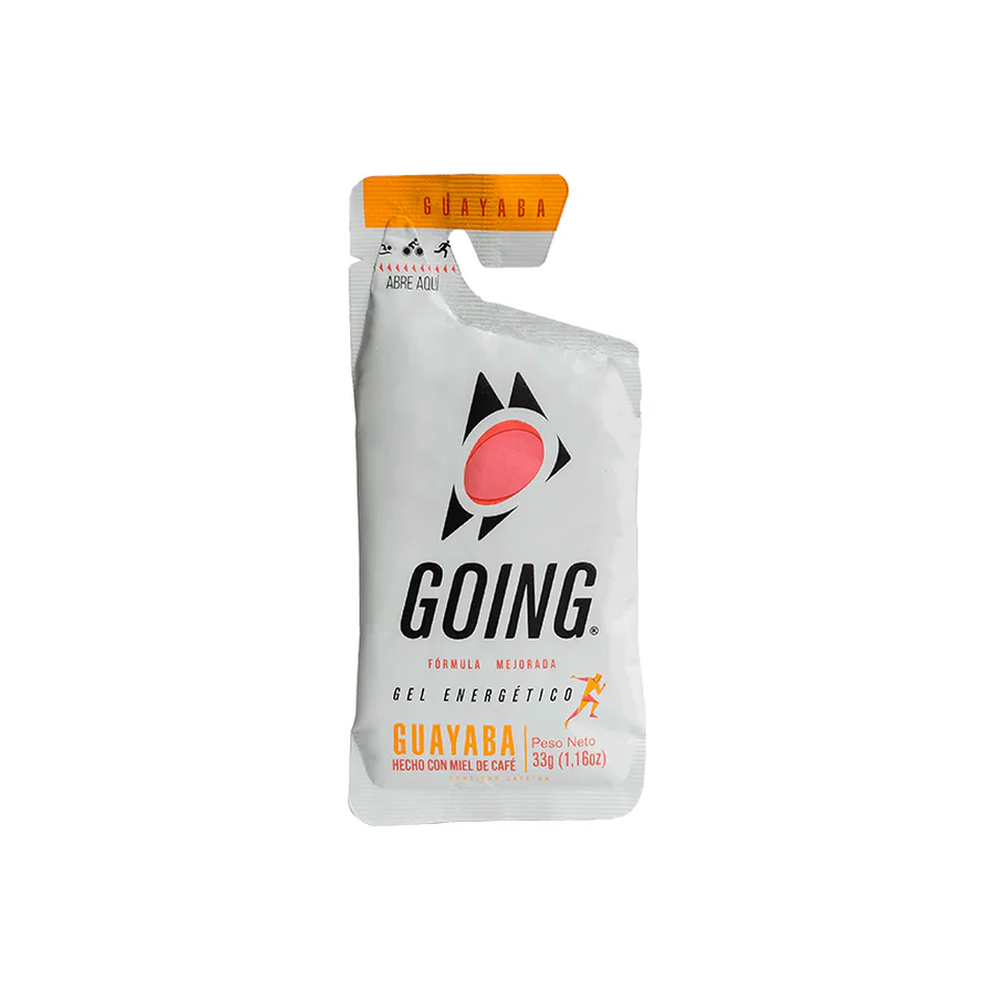
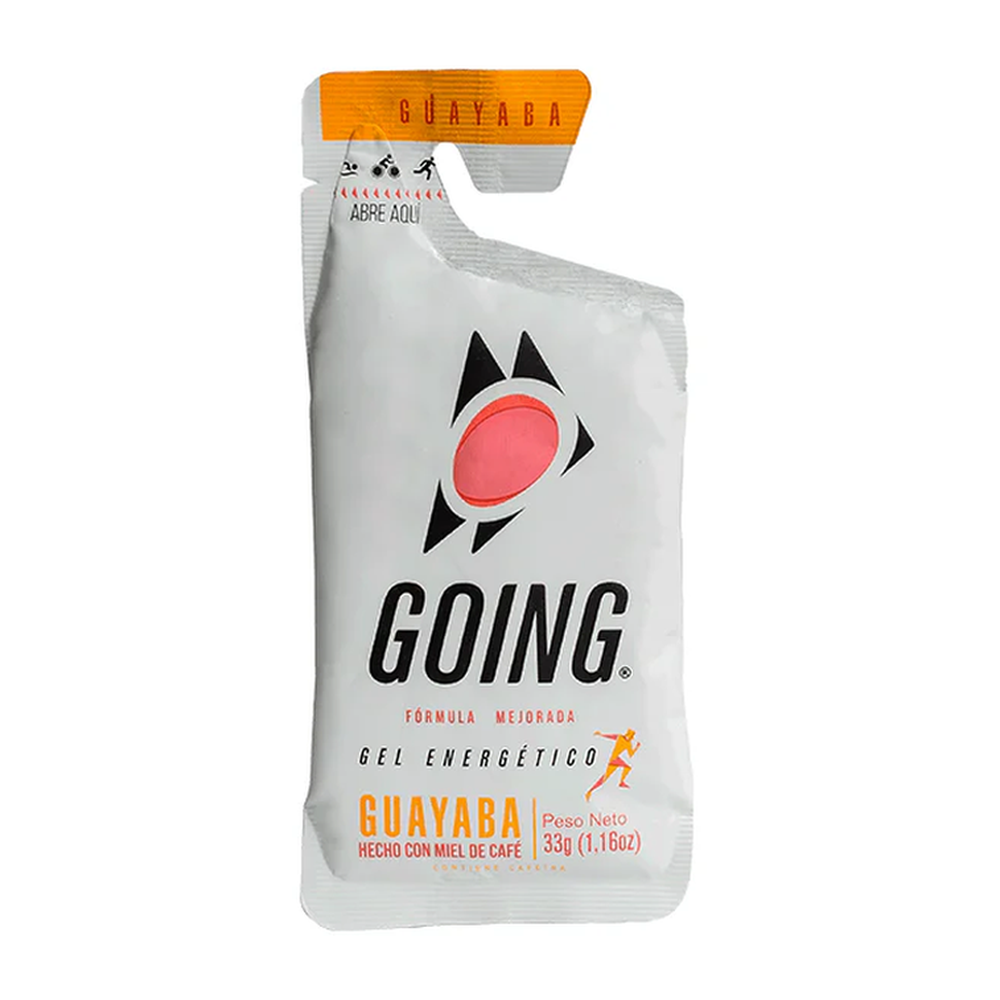
Zoom a las fotos de los geles Going (Fresa, Granada, Guayaba, Cafe) para igualar el tamano de los de Honey Stinger

Changed region(s): [[0.279, 0.062, 0.713, 0.93]]

diff --git a/app.js b/app.js
@@ -5,7 +5,7 @@
    navegador puede seguir mostrando una copia vieja en caché. Subir este número
    cada vez que se reemplacen fotos de producto fuerza a descargar la versión
    nueva en vez de servir la cacheada. */
-const IMG_V = 16;
+const IMG_V = 17;
 function withImgV(src){
   if(!src) return src;
   return src.split('?')[0] + '?v=' + IMG_V;

diff --git a/categoria.html b/categoria.html
@@ -1103,6 +1103,6 @@
   </div>
 </footer>
 
-<script src="app.js?v=44"></script>
+<script src="app.js?v=45"></script>
 </body>
 </html>

diff --git a/articulo-sodio-skratch.html b/articulo-sodio-skratch.html
@@ -453,6 +453,6 @@
   </div>
 </footer>
 
-<script src="app.js?v=44"></script>
+<script src="app.js?v=45"></script>
 </body>
 </html>

diff --git a/articulo.html b/articulo.html
@@ -345,6 +345,6 @@
   </div>
 </footer>
 
-<script src="app.js?v=44"></script>
+<script src="app.js?v=45"></script>
 </body>
 </html>

diff --git a/busqueda.html b/busqueda.html
@@ -464,6 +464,6 @@
   </div>
 </footer>
 
-<script src="app.js?v=44"></script>
+<script src="app.js?v=45"></script>
 </body>
 </html>

diff --git a/carrito.html b/carrito.html
@@ -330,6 +330,6 @@
   </div>
 </footer>
 
-<script src="app.js?v=44"></script>
+<script src="app.js?v=45"></script>
 </body>
 </html>

diff --git a/guias.html b/guias.html
@@ -235,6 +235,6 @@
   </div>
 </footer>
 
-<script src="app.js?v=44"></script>
+<script src="app.js?v=45"></script>
 </body>
 </html>

diff --git a/index.html b/index.html
@@ -634,6 +634,6 @@
   </div>
 </footer>
 
-<script src="app.js?v=44"></script>
+<script src="app.js?v=45"></script>
 </body>
 </html>

diff --git a/marca-honey.html b/marca-honey.html
@@ -481,6 +481,6 @@
   </div>
 </footer>
 
-<script src="app.js?v=44"></script>
+<script src="app.js?v=45"></script>
 </body>
 </html>

diff --git a/marca-probar.html b/marca-probar.html
@@ -379,6 +379,6 @@
   </div>
 </footer>
 
-<script src="app.js?v=44"></script>
+<script src="app.js?v=45"></script>
 </body>
 </html>

diff --git a/marca-saltstick.html b/marca-saltstick.html
@@ -399,6 +399,6 @@
   </div>
 </footer>
 
-<script src="app.js?v=44"></script>
+<script src="app.js?v=45"></script>
 </body>
 </html>

diff --git a/marca-skratch.html b/marca-skratch.html
@@ -380,6 +380,6 @@
   </div>
 </footer>
 
-<script src="app.js?v=44"></script>
+<script src="app.js?v=45"></script>
 </body>
 </html>
